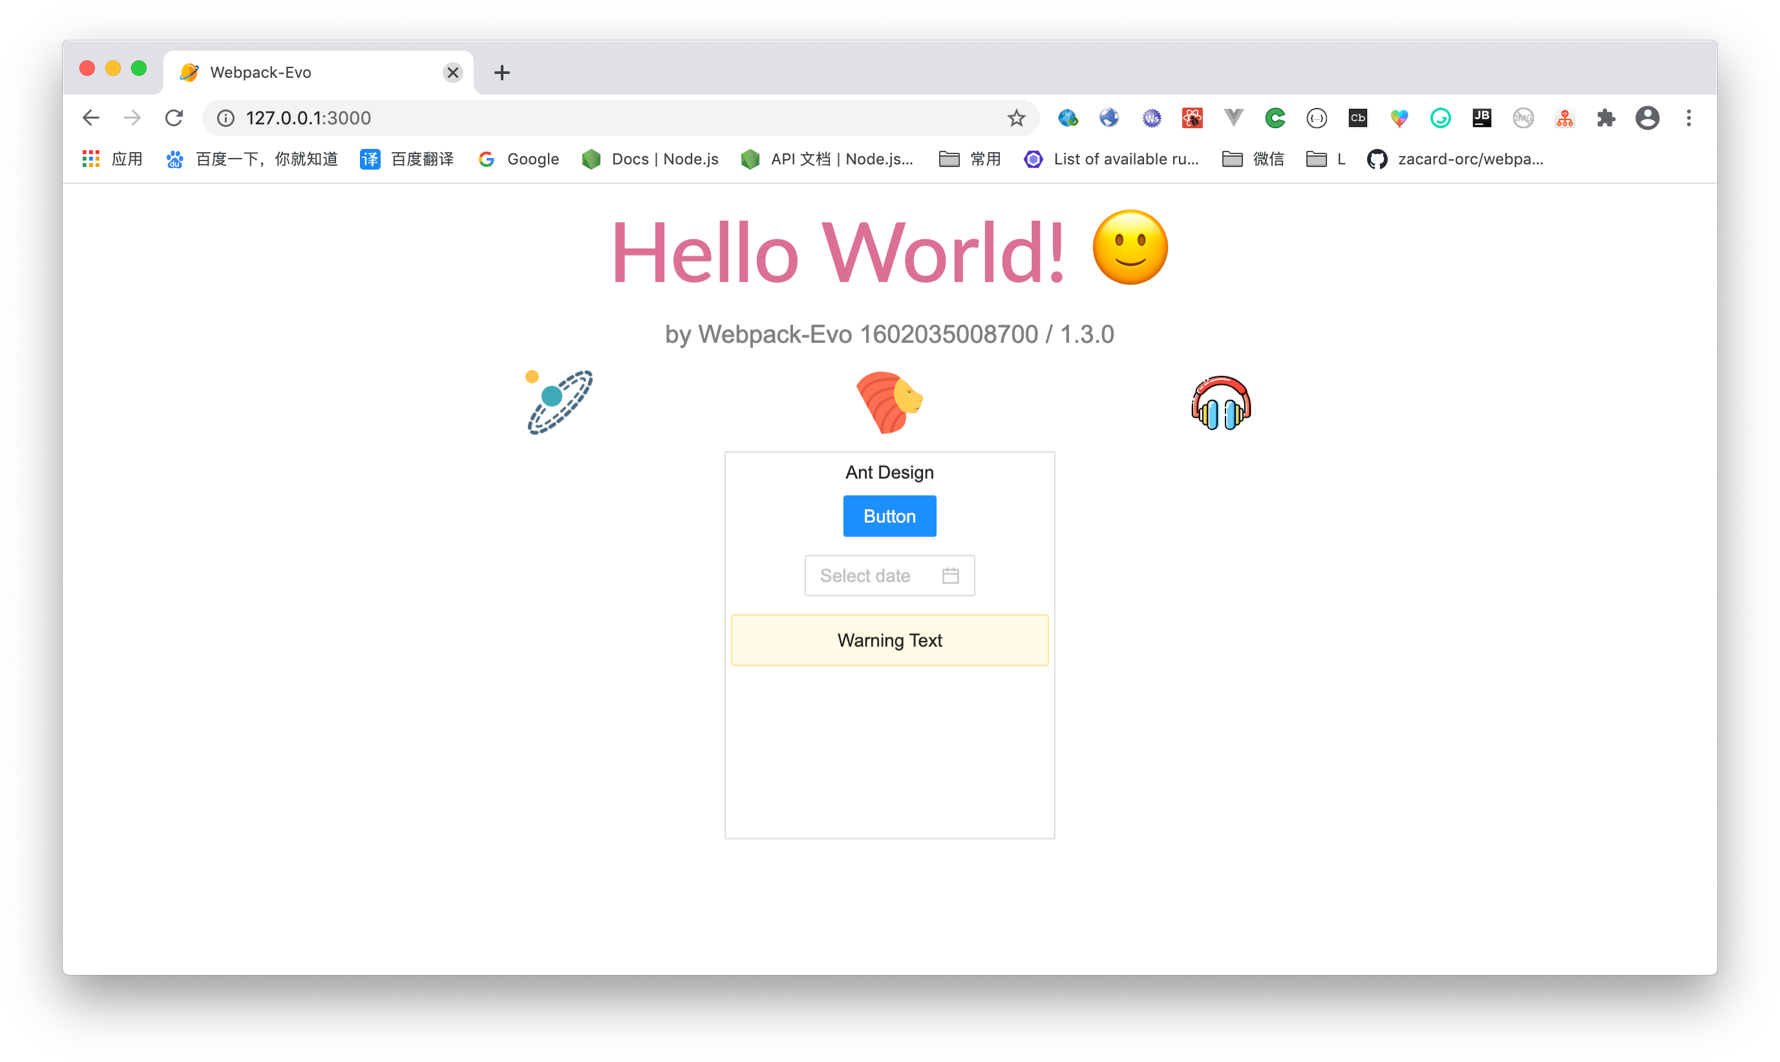
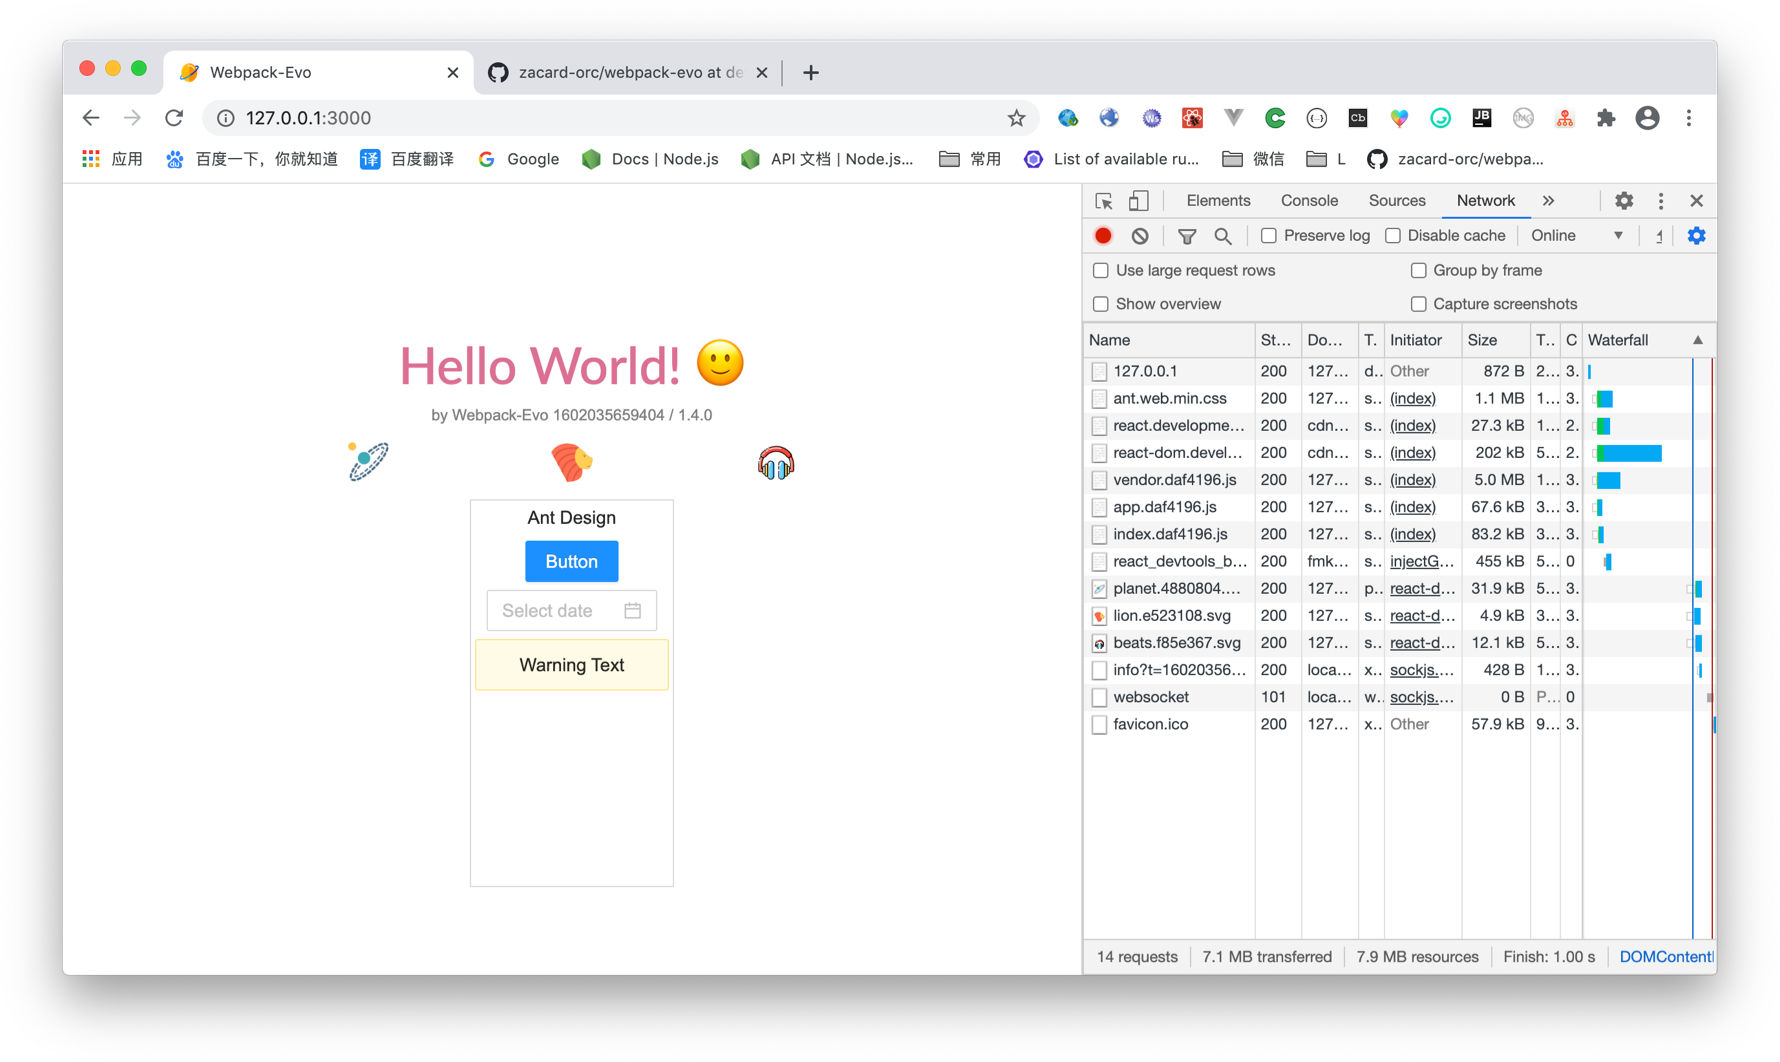
doc: update

diff --git a/src/coms/AntButton.js b/src/coms/AntButton.js
@@ -29,15 +29,21 @@ const AntButton = () =>  {
   return (
     <div>
       <h4>Ant Design</h4>
-      <p>
-        <Button type="primary">Button</Button>
-      </p>
-      <p>
-        <DatePicker onChange={onChange} />
-      </p>
-      <p>
-        <Alert message="Warning Text" type="warning" />
-      </p>
+      <div style={{
+        marginTop: '1vh'
+      }}
+      ><Button type="primary">Button</Button>
+      </div>
+      <div style={{
+        marginTop: '1vh'
+      }}
+      ><DatePicker onChange={onChange} />
+      </div>
+      <div style={{
+        marginTop: '1vh'
+      }}
+      ><Alert message="Warning Text" type="warning" />
+      </div>
     </div>
   )
 }

diff --git a/src/Scene/App.js b/src/Scene/App.js
@@ -25,6 +25,8 @@ import {
   AntButton
 } from '@/coms/AntButton'
 
+console.log('define ', JSON.stringify(process.env))
+
 const App = () => <div className={css.gm}>
   <div className={css.title}>Hello World!&nbsp;🙂</div>
   {/* eslint-disable-next-line no-undef */}
